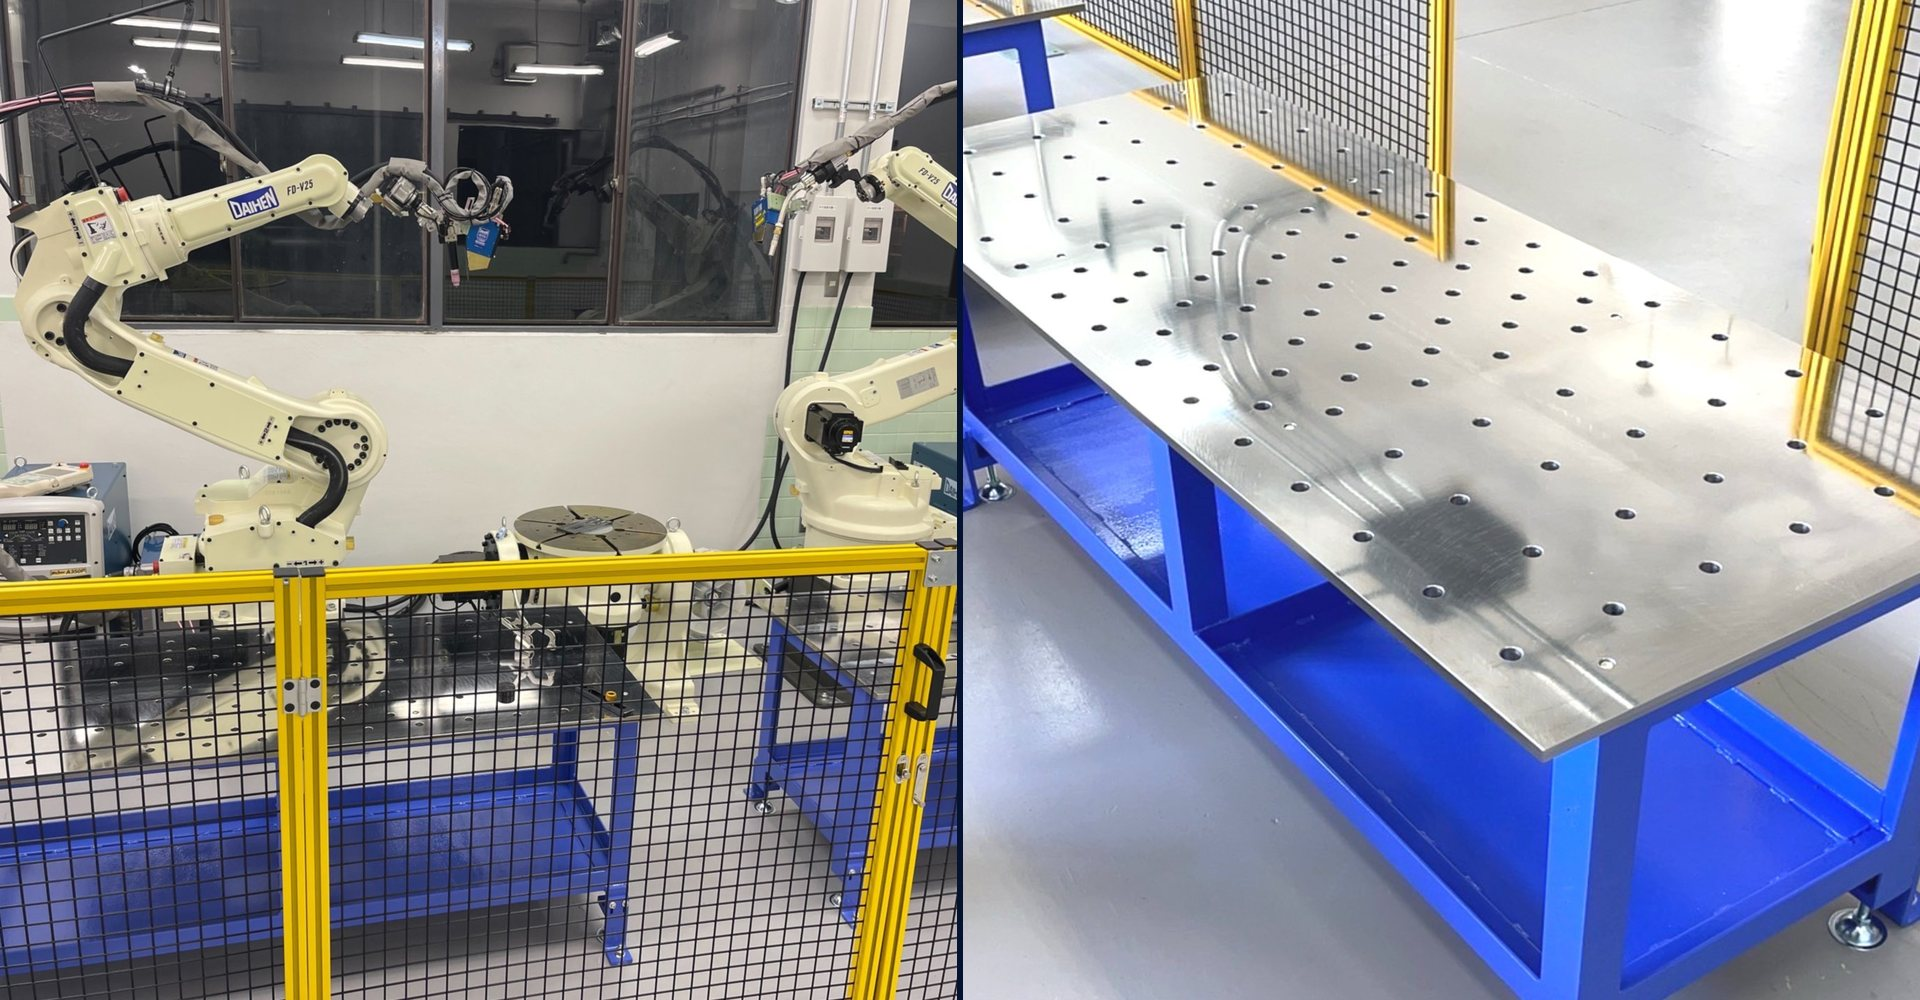
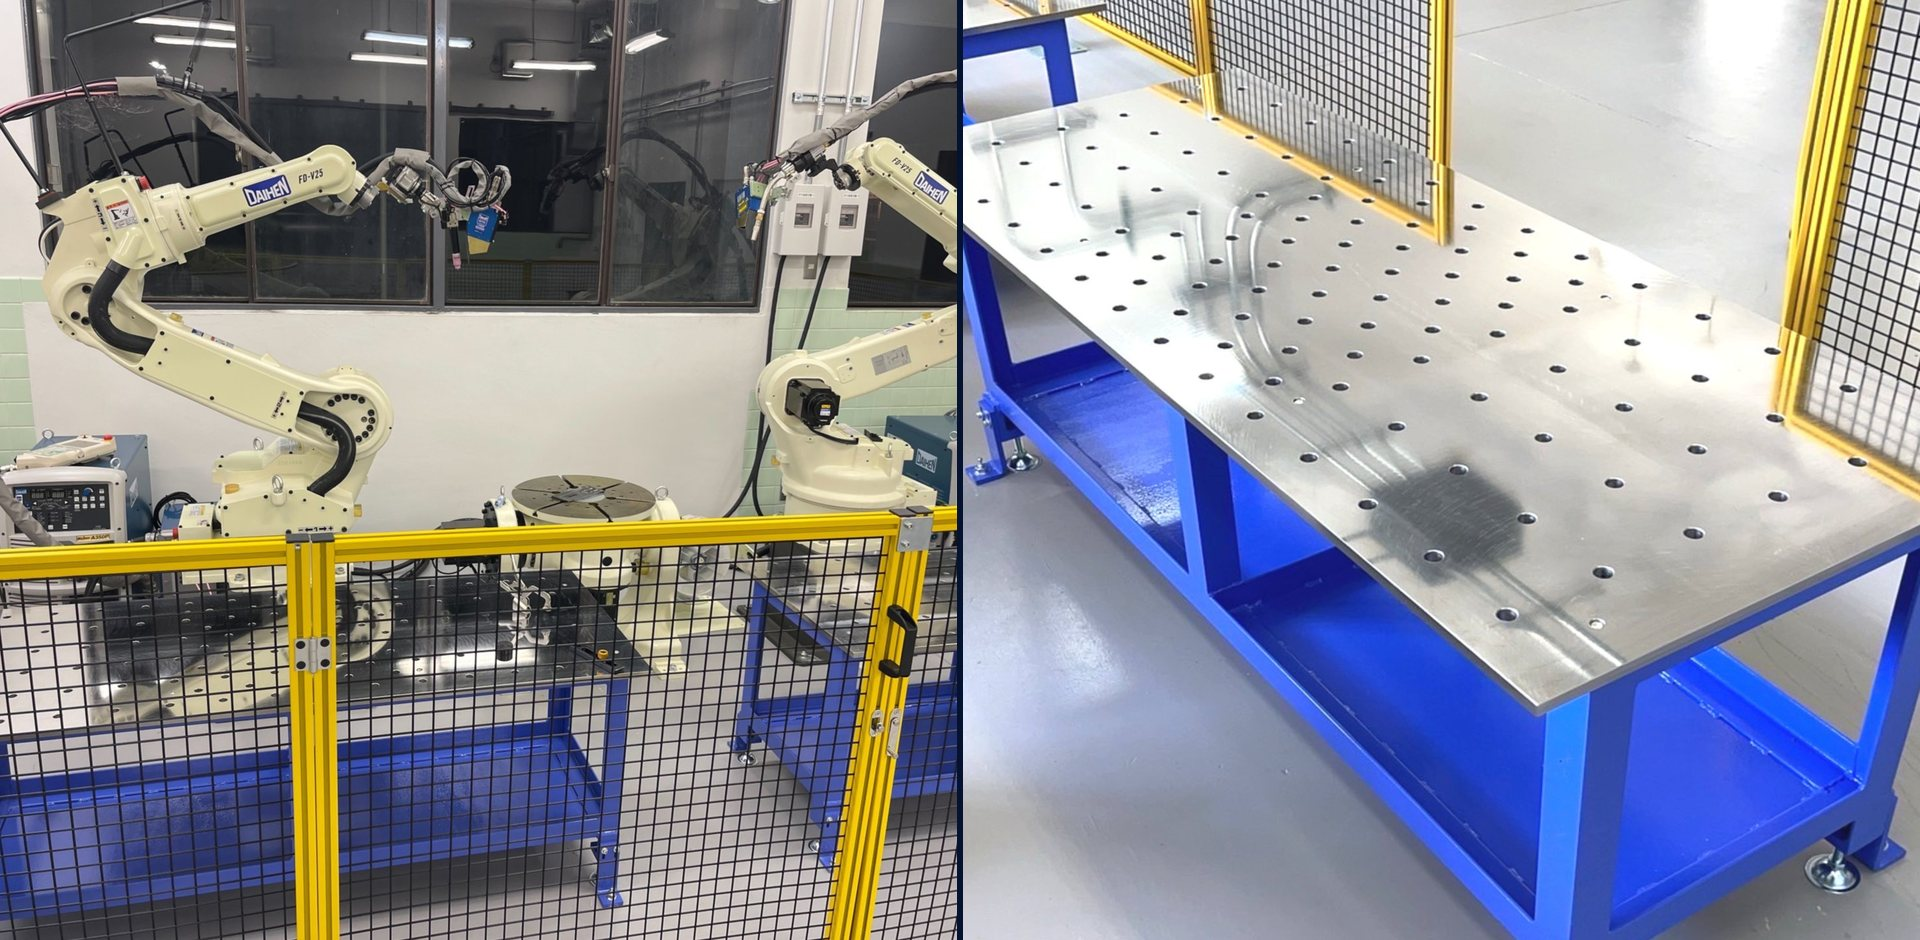
Soften the wide group photo's top and bottom, keep menu text readable, and refit the stitched images
- The wide group photo (whole) now sits at its own height with its top and
  bottom edges faded into the blurred background, so no horizontal line shows.
- Menu links get a dark halo on PCs so they stay readable over bright photos
  through the lighter glass.
- The stitched images are rebuilt at 2.04:1 to match the wider photo box
  (950x465 at 1280 px and up), so nothing is cut at the top or bottom: the
  award plaque's text and the heads in the top-left photo both stay visible.

diff --git a/css/style.css b/css/style.css
@@ -85,7 +85,9 @@ img { max-width: 100%; height: auto; vertical-align: middle; }
   .hero__slide.is-collage :is(img, video) { width: calc(100% - 290px); object-position: var(--pos, 50% 50%);
     --soft: linear-gradient(99deg, #000 calc((100cqw - 274.5px) * .9877), transparent calc((100cqw - 224.5px) * .9877)), linear-gradient(270deg, transparent, #000 10px);
     -webkit-mask: var(--soft); -webkit-mask-composite: source-in; mask: var(--soft); mask-composite: intersect; }   /* ぼかしは、メニューの左の縁（9° の斜め。帯の上の端で 100cqw - 274.5px = 300 - 22 - 22×tan 9°。.9877 = cos 9°）から右へ 50px と、右端の 10px */
-  .hero__slide.is-whole :is(img, video) { object-fit: contain; }
+  .hero__slide.is-whole :is(img, video) { position: absolute; left: 0; top: 50%; height: auto; max-height: 100%; translate: 0 -50%; object-fit: contain;
+    --whole: var(--soft), linear-gradient(180deg, transparent, #000 16px, #000 calc(100% - 16px), transparent);
+    -webkit-mask: var(--whole); -webkit-mask-composite: source-in; mask: var(--whole); mask-composite: intersect; }   /* 横に長い写真（全体）は、高さを写真に合わせて上下の真ん中に置き、上下の縁も 16px でぼかす（横の線を出さない。上下はぼかした背景） */
 }
 .hero__slide.is-collage::after { background: radial-gradient(ellipse 66% 80% at 0% 100%, rgba(6,19,48,.9), rgba(6,19,48,.55) 45%, transparent 78%); }
 @media (max-width: 960px) { .hero__slide.is-collage::after { background: linear-gradient(180deg, transparent 32%, rgba(6,19,48,.62) 52%, rgba(6,19,48,.92) 78%); } }   /* スマホはコピーが帯の幅いっぱいに重なるので、下半分を暗く */
@@ -122,7 +124,7 @@ img { max-width: 100%; height: auto; vertical-align: middle; }
 .hero__menu a .fa { font-size: 15px; color: #dbe9ff; }
 .hero__menu a::after { content: "\f054"; font-family: FontAwesome; margin-left: auto; font-size: 11px; color: var(--sub); }
 .hero__menu a:hover { color: var(--memorial-hi); }
-@media (min-width: 961px) { .hero__menu { background: rgba(5, 16, 40, .55); } }   /* PC は写真に重なるので、薄くして写真を透かす（スマホは .78 のまま） */
+@media (min-width: 961px) { .hero__menu { background: rgba(5, 16, 40, .55); } .hero__menu a { text-shadow: 0 1px 2px rgba(3, 10, 28, .9), 0 0 8px rgba(3, 10, 28, .8); } }   /* PC は写真に重なるので、薄くして写真を透かす。明るい写真の上でも読めるよう、文字のまわりを暗くする（スマホは .78 のまま） */
 
 /* 5枚のタイル */
 .tiles { position: relative; z-index: 2; list-style: none; margin: -18px 0 0; padding: 0 0 0 4px; display: grid; grid-template-columns: repeat(5, 1fr); gap: 10px; }

diff --git a/index.html b/index.html
@@ -58,7 +58,7 @@
       <figure class="hero__slide is-collage" style="background-image: url(img/top-05-bg.jpg)"><img data-src="img/top-05.jpg" alt="研究室の計算サーバー"></figure>
       <figure class="hero__slide is-collage" style="background-image: url(img/top-06-bg.jpg)"><img data-src="img/top-06.jpg" alt="研究室の溶接ロボットと実験用の作業台" style="--sp: 30% 50%"></figure>
       <figure class="hero__slide is-collage is-whole" style="background-image: url(img/top-08-bg.jpg)"><img data-src="img/top-08.jpg" alt="柴原研究室のメンバーの集合写真" style="--sp: 38% 50%"></figure>
-      <figure class="hero__slide is-collage" style="background-image: url(img/top-10-bg.jpg)"><img data-src="img/top-10.jpg" alt="研究室が受けた賞の賞状と盾、受賞者の写真" style="--pos: 50% 0%"></figure>
+      <figure class="hero__slide is-collage" style="background-image: url(img/top-10-bg.jpg)"><img data-src="img/top-10.jpg" alt="研究室が受けた賞の賞状と盾、受賞者の写真"></figure>
       <figure class="hero__slide is-collage" style="background-image: url(img/top-07-bg.jpg)" data-sec="16"><video data-src="img/top-07.mp4" muted loop playsinline preload="none" aria-label="理想化陽解法FEMの適用例。各産業分野での解析と、溶接速度を変えた解析" style="--pos: 50% 0%"></video></figure>
       <!-- /自動:トップの写真 -->
     </div>
